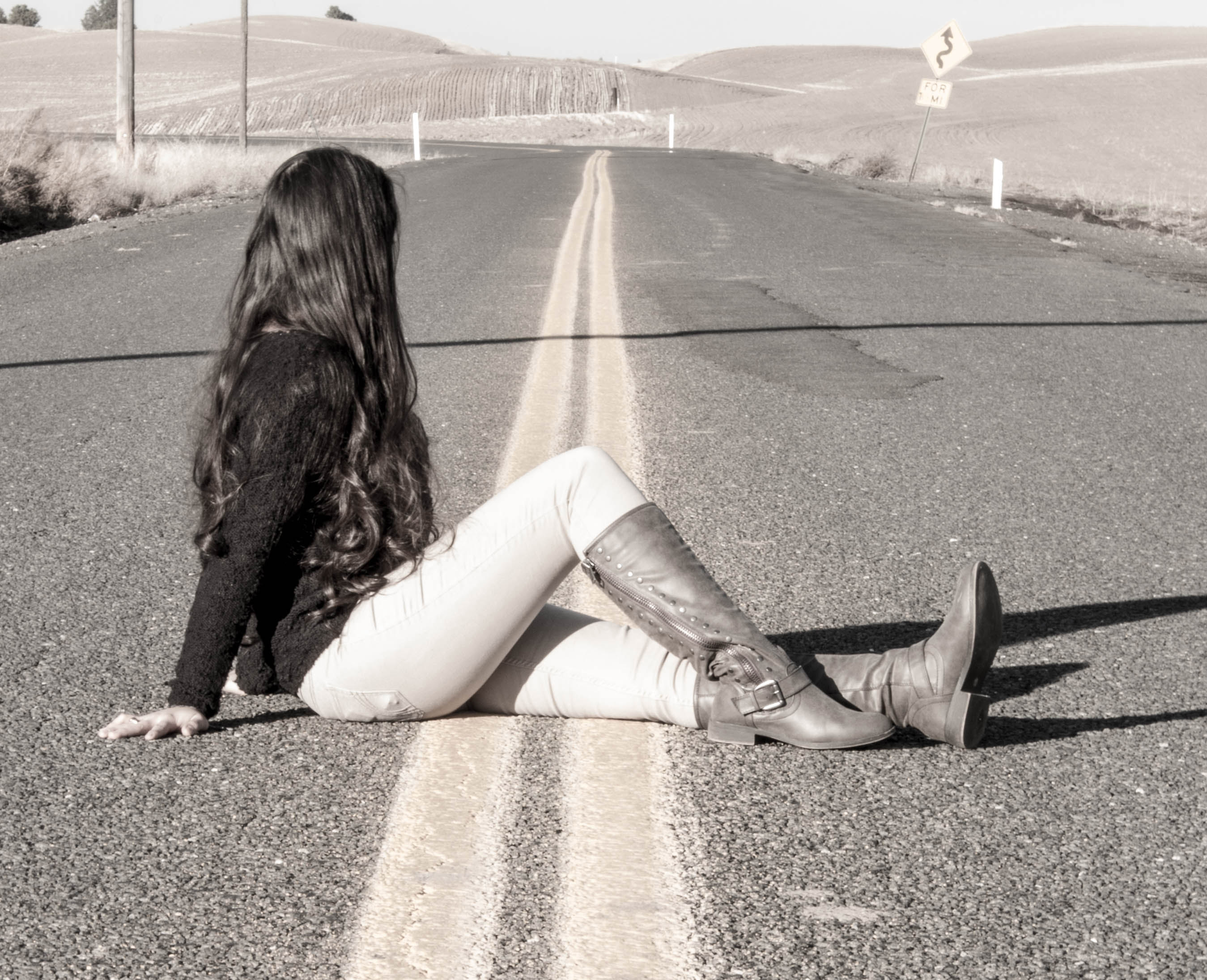
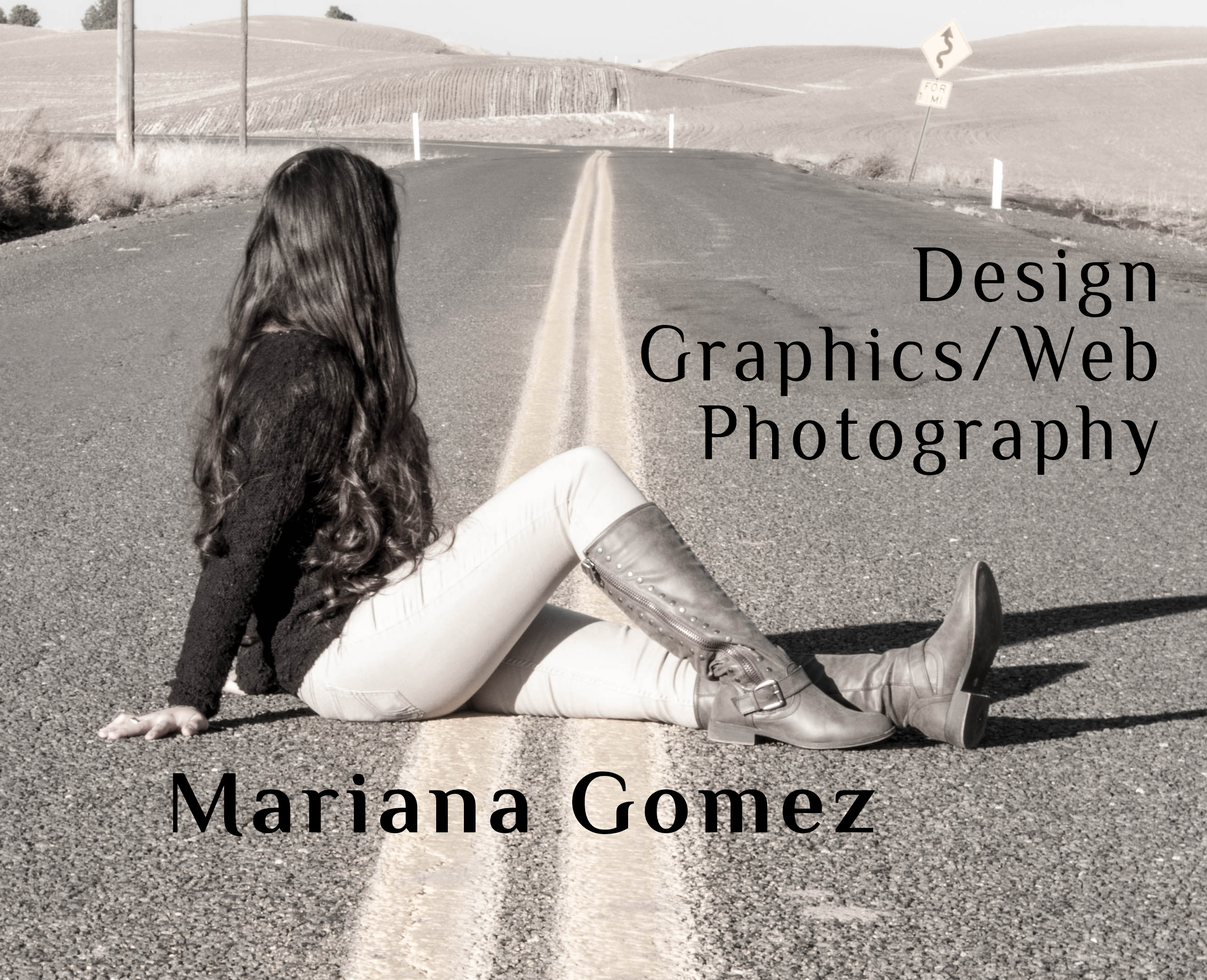
resume

diff --git a/resume.html b/resume.html
@@ -32,9 +32,9 @@
    </header> 
 <article class="contact" class="grid-container">
     <h2 class="titles" class="grid-6">Contact Information</h2>
-    <section class="grid-6">
+    <section>
         <a href="mailto:mgomez2013@eagles.ewu.edu" alt="email me"> <img src="img/icons/envelope2.svg" class="info"></a>
-        <a href=" tel:5098451775" alt="509-845-1775"> <img src="img/icons/iphone26.svg" class="info"></a>
+        <a href="" alt="509-845-1775"> <img src="img/icons/iphone26.svg" class="info"></a><p class="phonenumber">(509) 845-1775</p>
         <a href="http://www.facebook.com/gomez.mariana13" alt="facebook me" > <img src="img/icons/facebook31.svg" class="info"></a>   
         <a href="http://codepen.io/Gomez2013/" alt="CodePen"> <img src="img/icons/3d80.svg" class="info"></a>
           <a href="http://github.com/Gomez2013/" alt="Github"> <img src="img/icons/github10.svg" class="info"></a>
@@ -86,8 +86,7 @@
 
 </body>
 
-    <footer class="grid-container" id="footer">
-        <img src="img/icons/trademark1.svg" class="copyright" class="grid-12">
-    <p class="grid-12"> 2015 Mariana Gomez</p>
+    <footer id="footer">
+    <p> 2015 Mariana Gomez</p>
     </footer>
 </html>  

diff --git a/css/styles.css b/css/styles.css
@@ -4,7 +4,7 @@ title {
  font-family: 'Philosopher', sans-serif;
 }
 
-html, body {
+html, body, footer {
     max-width: 100%;
     min-width: 100%;
     overflow-x: hidden;
@@ -17,7 +17,7 @@ height: 400px;
 /******HEADER*******/
 
 .toprectangle {
-   background: rgba(216,210,183, .3);
+   background: rgba(216,210,183, .1);
     width: 100%;
     height: 80px;
     position: fixed;
@@ -135,7 +135,11 @@ div .hr {
     max-width: 30px;
     padding: 1px;
     display: inline!important;
+    align-content: right;
+    right:50px; 
 }
+
+
 /******TYPOGRAPHY*******/
 
 h1 {
@@ -153,7 +157,8 @@ h1 {
     color: rgb(101, 167, 187);
     font-size:28px;
     font-weight: lighter;
-    padding-left: 5p
+    padding-left: 5px;
+    padding-top: 10px;
     }
 h3 {
     font-family: 'Montserrat', sans-serif;

diff --git a/index.html b/index.html
@@ -25,20 +25,15 @@
             <li><a href="portfolio.html">Portfolio</a></li>
           </ul>
         </nav> 
-<article>
-    <section>
-            <p class="designer"> Designer/Graphics/<br>Web/Photography</p>
-            <h1 class="homeh1"> Mariana Gomez</h1>
-    </section>
- </article>
+
     </div>
 <!--     <img src="img/lines.jpg" class="homejpg">-->
 </body>
-    <div class="container">
-    <footer class="grid-container" id="footer">
-      <p class="grid-12">@ 2015 Mariana Gomez</p>
+  
+    <footer id="footer">
+      <p>@ 2015 Mariana Gomez</p>
     </footer>
-    </div>
+ 
 </html>
 
 
